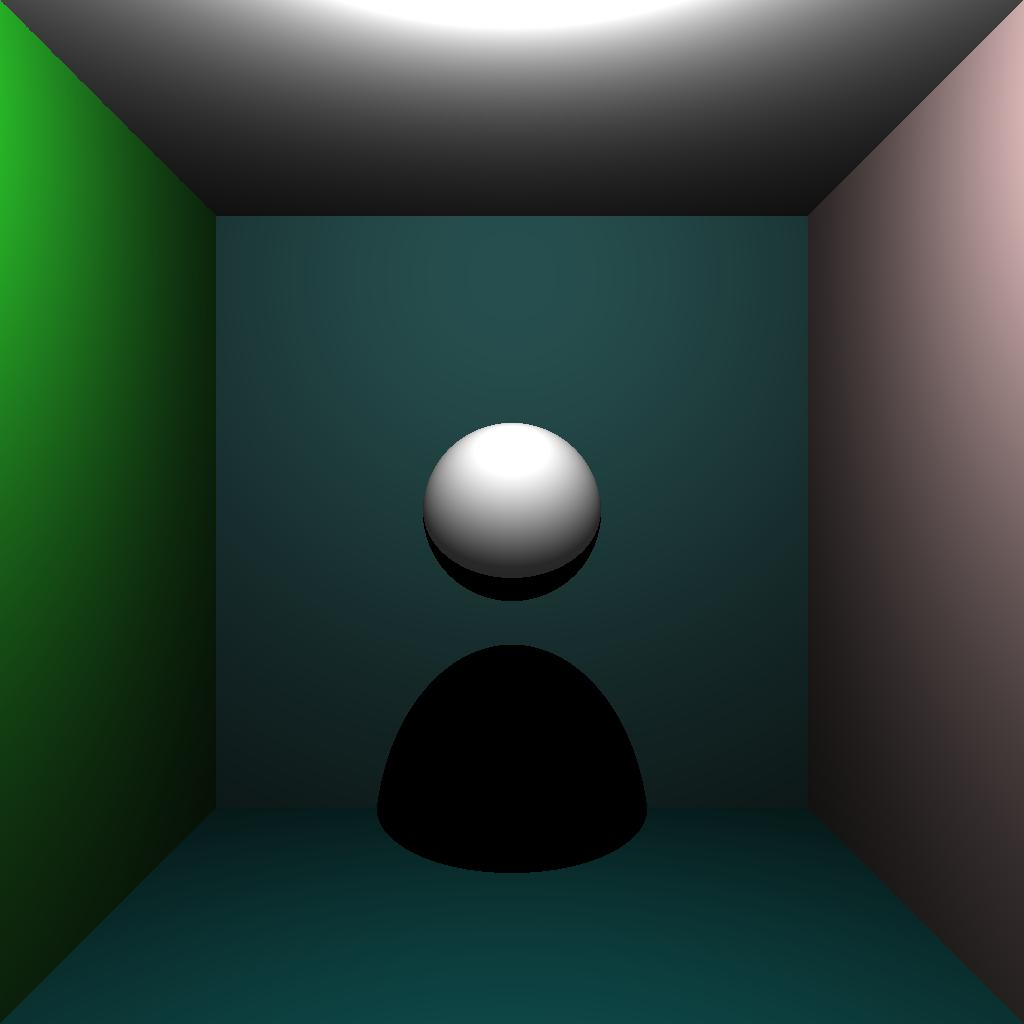
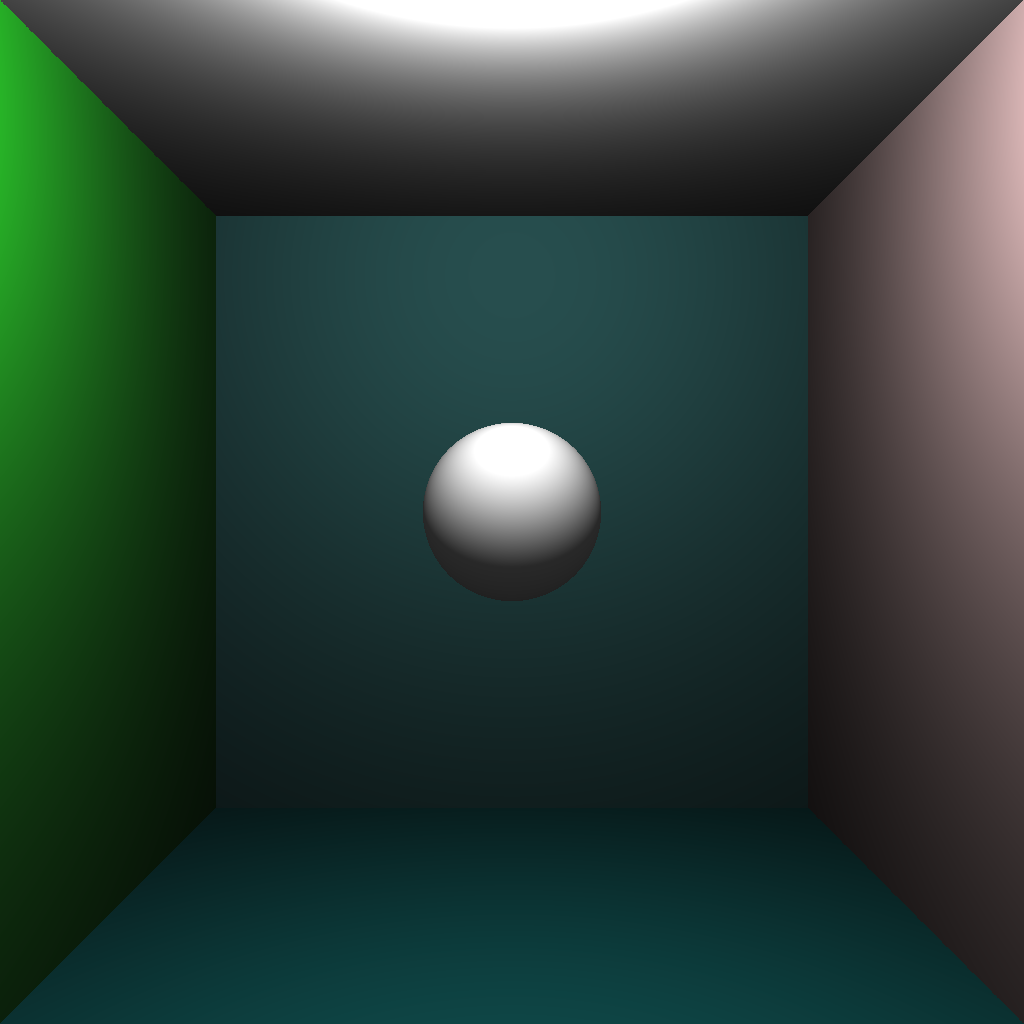
-*-ray-*- first assignment, lol

Changed region(s): [[0.3438, 0.625, 0.6562, 0.875], [0.4062, 0.5312, 0.5938, 0.5938]]

diff --git a/ray tracer/src/scenes/Assignment1_First.java b/ray tracer/src/scenes/Assignment1_First.java
@@ -2,9 +2,9 @@ package scenes;
 
 import javax.vecmath.Vector3f;
 
-import rt.BlinnIntegrator;
+import rt.BinaryIntegrator;
+import rt.BlinnMaterial;
 import rt.Camera;
-import rt.DiffuseMaterial;
 import rt.Film;
 import rt.IntegratorFactory;
 import rt.Intersectable;
@@ -29,7 +29,7 @@ public class Assignment1_First implements Scene {
 		outputFileName = new String("Assignment1_First.png");
 
 		// Specify integrator to be used
-		integratorFactory = new BlinnIntegrator();
+		integratorFactory = new BinaryIntegrator();
 
 		// Specify pixel sampler to be used
 		tonemapper = new Tonemapper();
@@ -53,7 +53,7 @@ public class Assignment1_First implements Scene {
 		float d = 1.f;
 		Plane plane = new Plane(normal, d);
 		Spectrum kd = new Spectrum(0.f, 0.8f, 0.8f);
-		plane.setMaterial(new DiffuseMaterial(kd));
+		plane.setMaterial(new BlinnMaterial(kd));
 		objects.add(plane);
 
 		Vector3f position = new Vector3f(0.f, 0.8f, 0.8f);
